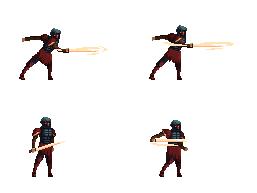
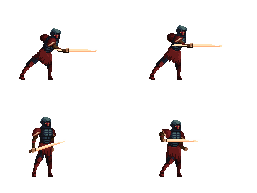
smooth animations

diff --git a/src/gameObjects/HeroCharacter.js b/src/gameObjects/HeroCharacter.js
@@ -1,13 +1,14 @@
 import { Character } from './Character.js';
+//import { StateMachine } from './state-machine/stateMachine.js';
 
 export class HeroCharacter extends Character {
     constructor(scene, x, y) {
         super(scene, x, y, {
             characterType: 'hero',
             idleSpriteKey: 'hero_idle', 
-            health: 100, // ninjavaerdier
+            health: 100,  
             maxHealth: 100,
-            attackDamage: 12, 
+            attackDamage: 8, 
             invincibilityDuration: 800, 
             hitboxConfig: { width: 50, height: 10 }, 
             animationKeys: {
@@ -25,26 +26,26 @@ export class HeroCharacter extends Character {
     initAnimations() {
         this.anims.create({
             key: this.animationKeys.left,
-            frames: this.anims.generateFrameNames('hero_run', { prefix: 'running', end: 11, zeroPad: 4 }),
-            frameRate: 20, //aendrede vaerdier
+            frames: this.anims.generateFrameNames('hero_run', { prefix: 'running', end: 10, zeroPad: 4 }),
+            frameRate: 16, //aendrede vaerdier
             repeat: -1
         });
         this.anims.create({
             key: this.animationKeys.turn,
             frames: this.anims.generateFrameNames('hero_idle', { prefix: 'idle', end: 8, zeroPad: 4 }),
-            frameRate: 3, 
+            frameRate: 5, 
             repeat: -1
         });
         this.anims.create({
             key: this.animationKeys.right,
-            frames: this.anims.generateFrameNames('hero_run', { prefix: 'running', end: 12, zeroPad: 4 }),
-            frameRate: 20,
+            frames: this.anims.generateFrameNames('hero_run', { prefix: 'running', end: 10, zeroPad: 4 }),
+            frameRate: 16,
             repeat: -1
         });
         this.anims.create({
             key: this.animationKeys.jump,
             frames: this.anims.generateFrameNames('hero_jump', { prefix: 'jumping', end: 8, zeroPad: 4 }),
-            frameRate: 6,
+            frameRate: 10,
             repeat: 0
         });
         this.anims.create({

diff --git a/src/gameObjects/NinjaCharacter.js b/src/gameObjects/NinjaCharacter.js
@@ -27,19 +27,19 @@ export class NinjaCharacter extends Character {
         this.anims.create({
             key: this.animationKeys.left,
             frames: this.anims.generateFrameNames('ninja_run', { prefix: 'running', end: 8, zeroPad: 4 }),
-            frameRate: 12, // Faster for ninja
+            frameRate: 16, // Faster for ninja
             repeat: -1
         });
         this.anims.create({
             key: this.animationKeys.turn,
-            frames: this.anims.generateFrameNames('ninja_idle', { prefix: 'idle', end: 8, zeroPad: 4 }),
+            frames: this.anims.generateFrameNames('ninja_idle', { prefix: 'idle', end: 4, zeroPad: 4 }),
             frameRate: 6,
             repeat: -1
         });
         this.anims.create({
             key: this.animationKeys.right,
             frames: this.anims.generateFrameNames('ninja_run', { prefix: 'running', end: 8, zeroPad: 4 }),
-            frameRate: 12,
+            frameRate: 16,
             repeat: -1
         });
         this.anims.create({
